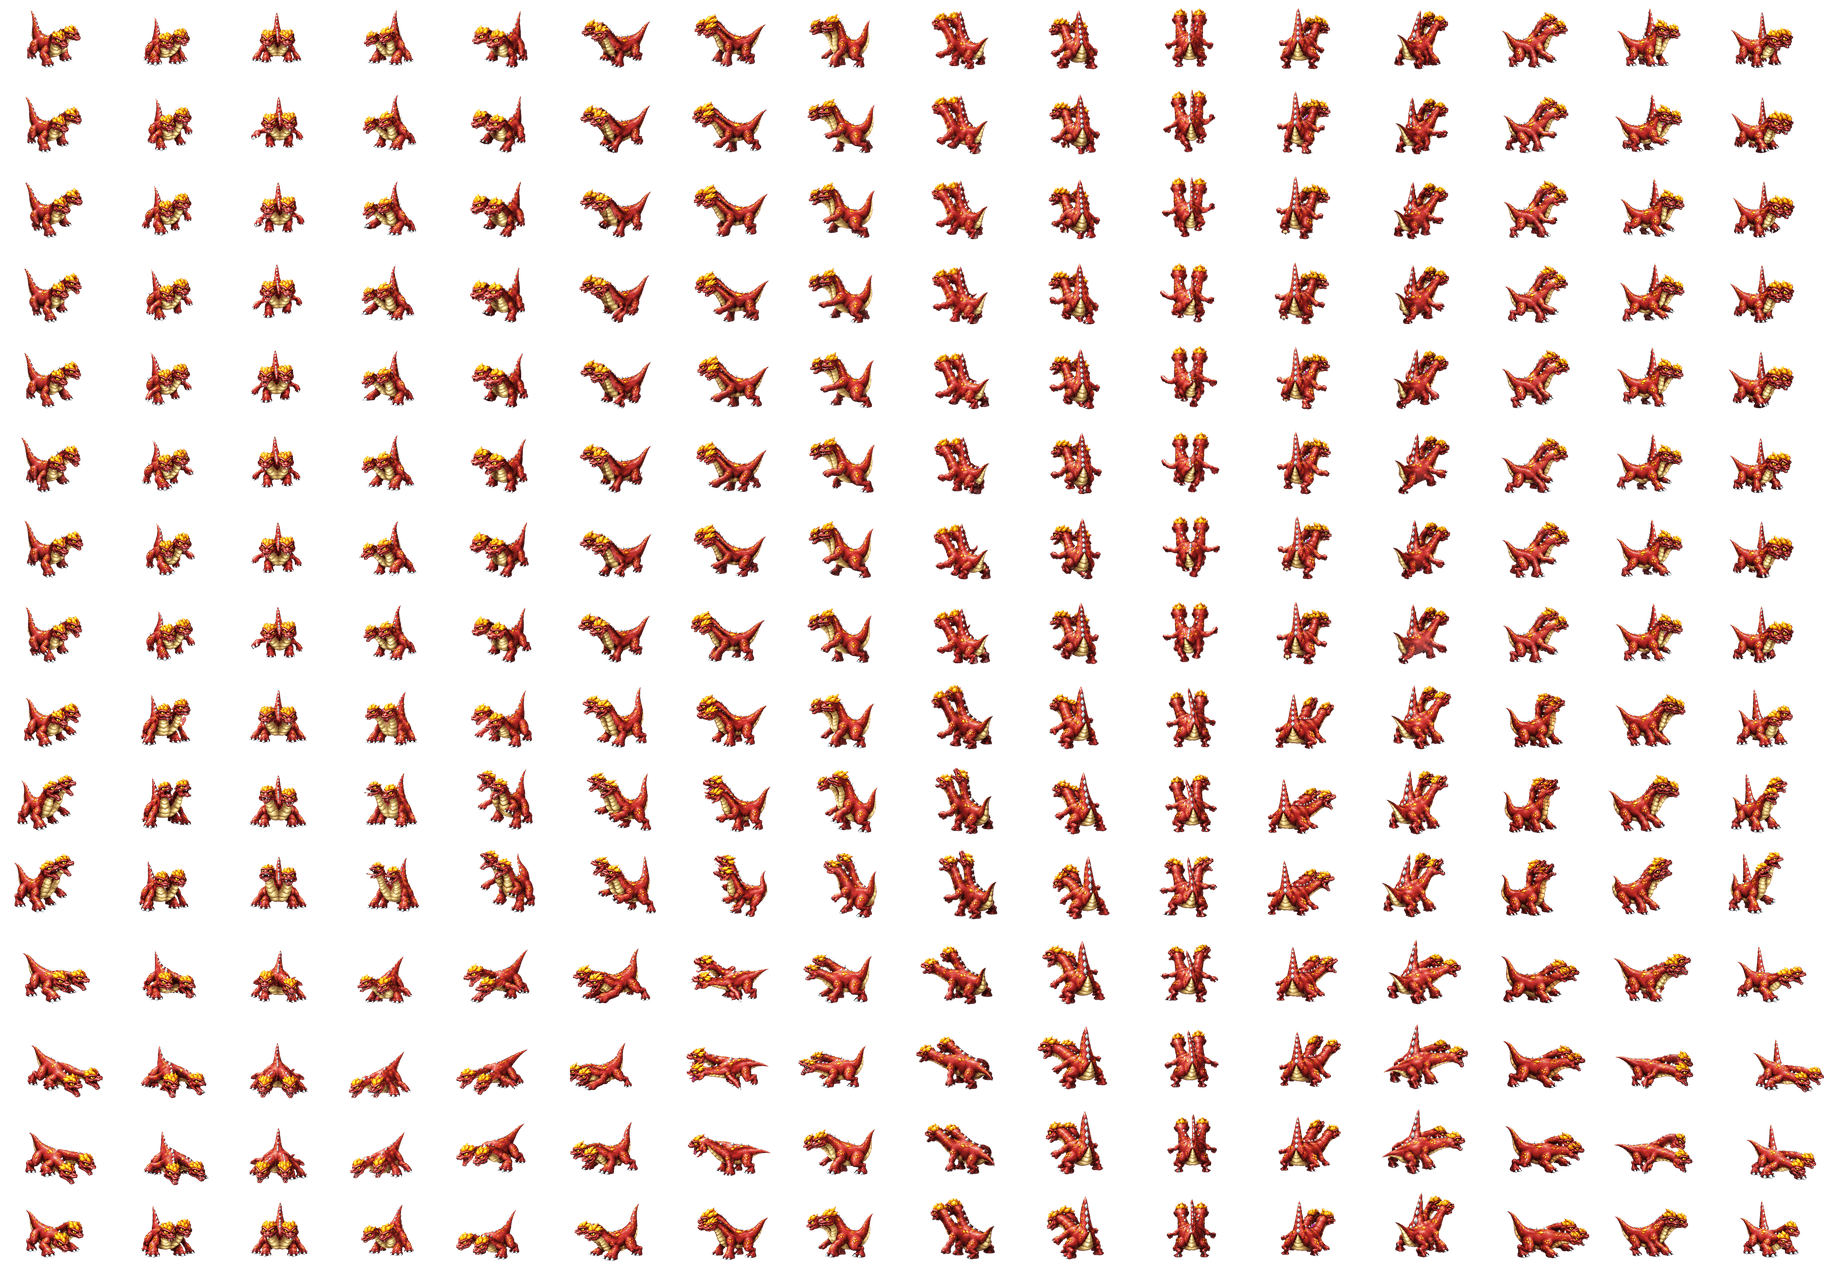
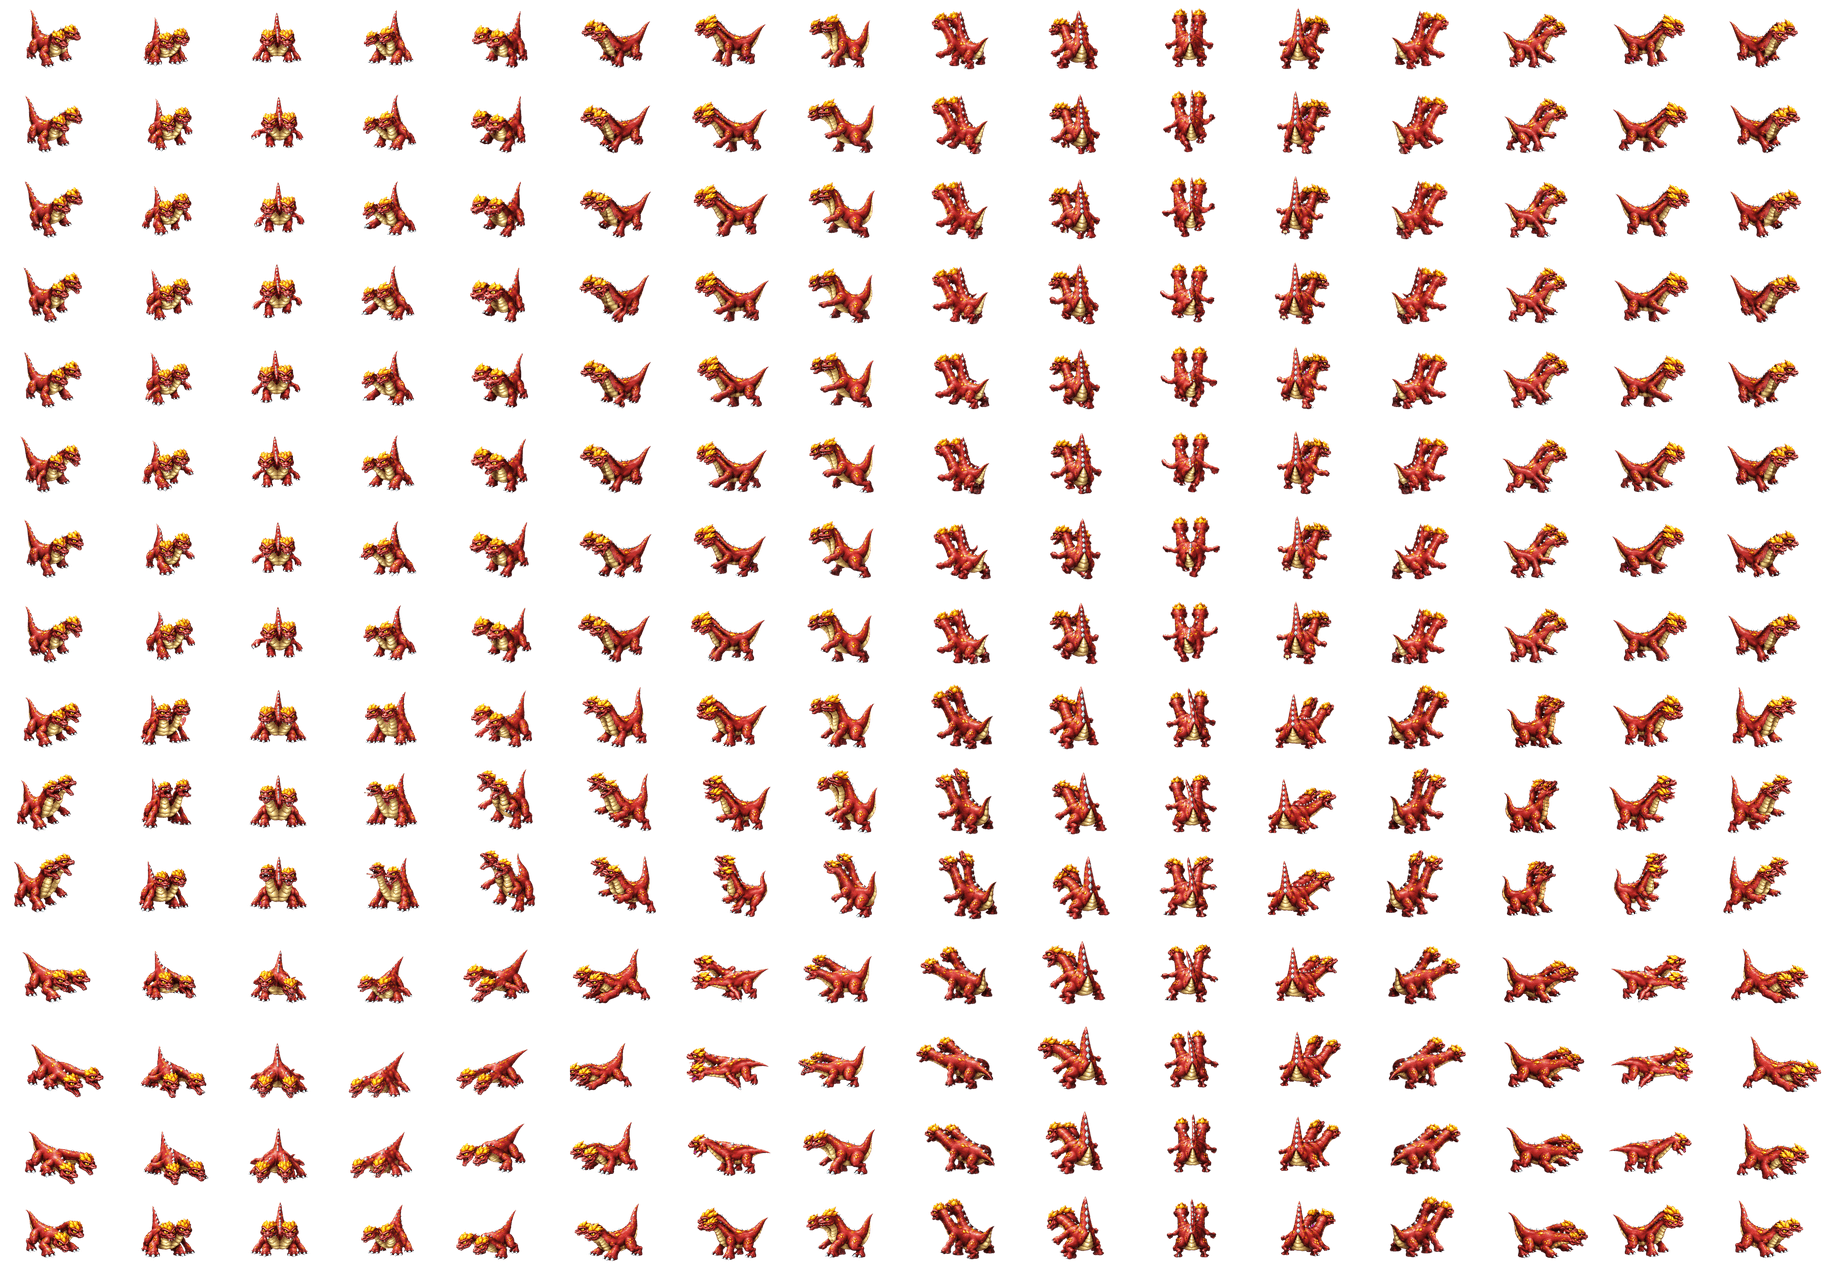
Drull L3: one tail in every heading (headings 12, 14 and 15 are now 8, 6 and 5 flipped)
The paintings for headings 12, 14 and 15 gave Drull a second tail: a tall
spike rising from the back as well as the real tail. The Flash sheet is
mirrored the same way, so these headings now use the flipped paintings of
8, 6 and 5, placed against their own old frames. Size smoothing stays
cyclic round the painted headings.

Claude-Session: https://claude.ai/code/session_016nGFFJARj2iBuiqXagav7x

diff --git a/web/tools/gen-champ-l3-sprite.py b/web/tools/gen-champ-l3-sprite.py
@@ -8,7 +8,9 @@ from Codex-painted frames. Usage (from the repo root):
 The source folder holds one painted grid per call, `<mode><col>/frames-new.png` on a flat #FF00FF ground (web/tools/champ-l3-kit/make_batch.py
 builds the inputs and the prompt of each call; SHEETS below says which rows each call paints, cell 1 of every call being row 0). Gorgo and
 Krallen have the columns 2..10 (front, through left, to back) painted; the other columns (11..15, 0, 1) are the painted column (4 - c) mod 16
-flipped left/right, placed against column c's own old frames. Drull and Fomor have every column painted (as their level 1 repaints).
+flipped left/right, placed against column c's own old frames. Fomor has every column painted (as its level 1 repaint), Drull every column but
+12, 14 and 15: their paintings gave Drull a second tail (a tall spike as well as the real one), so they are 8, 6 and 5 flipped (the Flash
+sheet is mirrored the same way).
 
 Each painted frame is keyed (the ground is flood-filled from the cell edge) and scaled so that the row-0 silhouette covers AREA times the
 pixels the old row-0 body does (one factor per heading, smoothed over the neighbouring headings). Placement: row 0 sits on the old row 0's
@@ -29,7 +31,7 @@ from scipy import ndimage as ndi
 
 SHEETS = {
     "ape_3": dict(cell=(103, 88), rows=15, painted=range(2, 11), calls={"A": [0, *range(1, 8)], "B": [0, *range(8, 15)]}, hold_walk=True),
-    "dragon_3": dict(cell=(114, 85), rows=15, painted=range(16), calls={"A": [0, *range(1, 8)], "B": [0, *range(8, 15)]}, hold_walk=True),
+    "dragon_3": dict(cell=(114, 85), rows=15, painted=[c for c in range(16) if c not in (12, 14, 15)], calls={"A": [0, *range(1, 8)], "B": [0, *range(8, 15)]}, hold_walk=True),
     "fly_3": dict(cell=(98, 81), rows=7, painted=range(16), calls={"A": list(range(7))}, hold_walk=False),
     "krallen_2_rev_65": dict(cell=(131, 90), rows=16, painted=range(2, 11), calls={"A": list(range(10)), "B": [0, *range(10, 16)]}, hold_walk=False),
 }
@@ -171,9 +173,9 @@ COLUMNS = sorted(frames)
 # one size per painted heading (sqrt of the row-0 area, in 1x pixels), smoothed 1-2-1 over the neighbouring painted headings
 want = {c: np.sqrt(AREA * old_body(c, 0).sum()) for c in PAINTED}
 k = {}
-cyclic = len(PAINTED) == COLS
+cyclic = NAME in ("dragon_3", "fly_3")       # every heading round the circle is painted or mirrored
 for i, c in enumerate(PAINTED):
-    idx = [(j % COLS) if cyclic else j for j in (i - 1, i, i, i + 1)]
+    idx = [(j % len(PAINTED)) if cyclic else j for j in (i - 1, i, i, i + 1)]
     near = [want[PAINTED[j]] for j in idx if 0 <= j < len(PAINTED)]
     k[c] = float(np.mean(near)) / np.sqrt(solid(frames[c][0][0]).sum())
 for c, src in MIRRORED.items():
